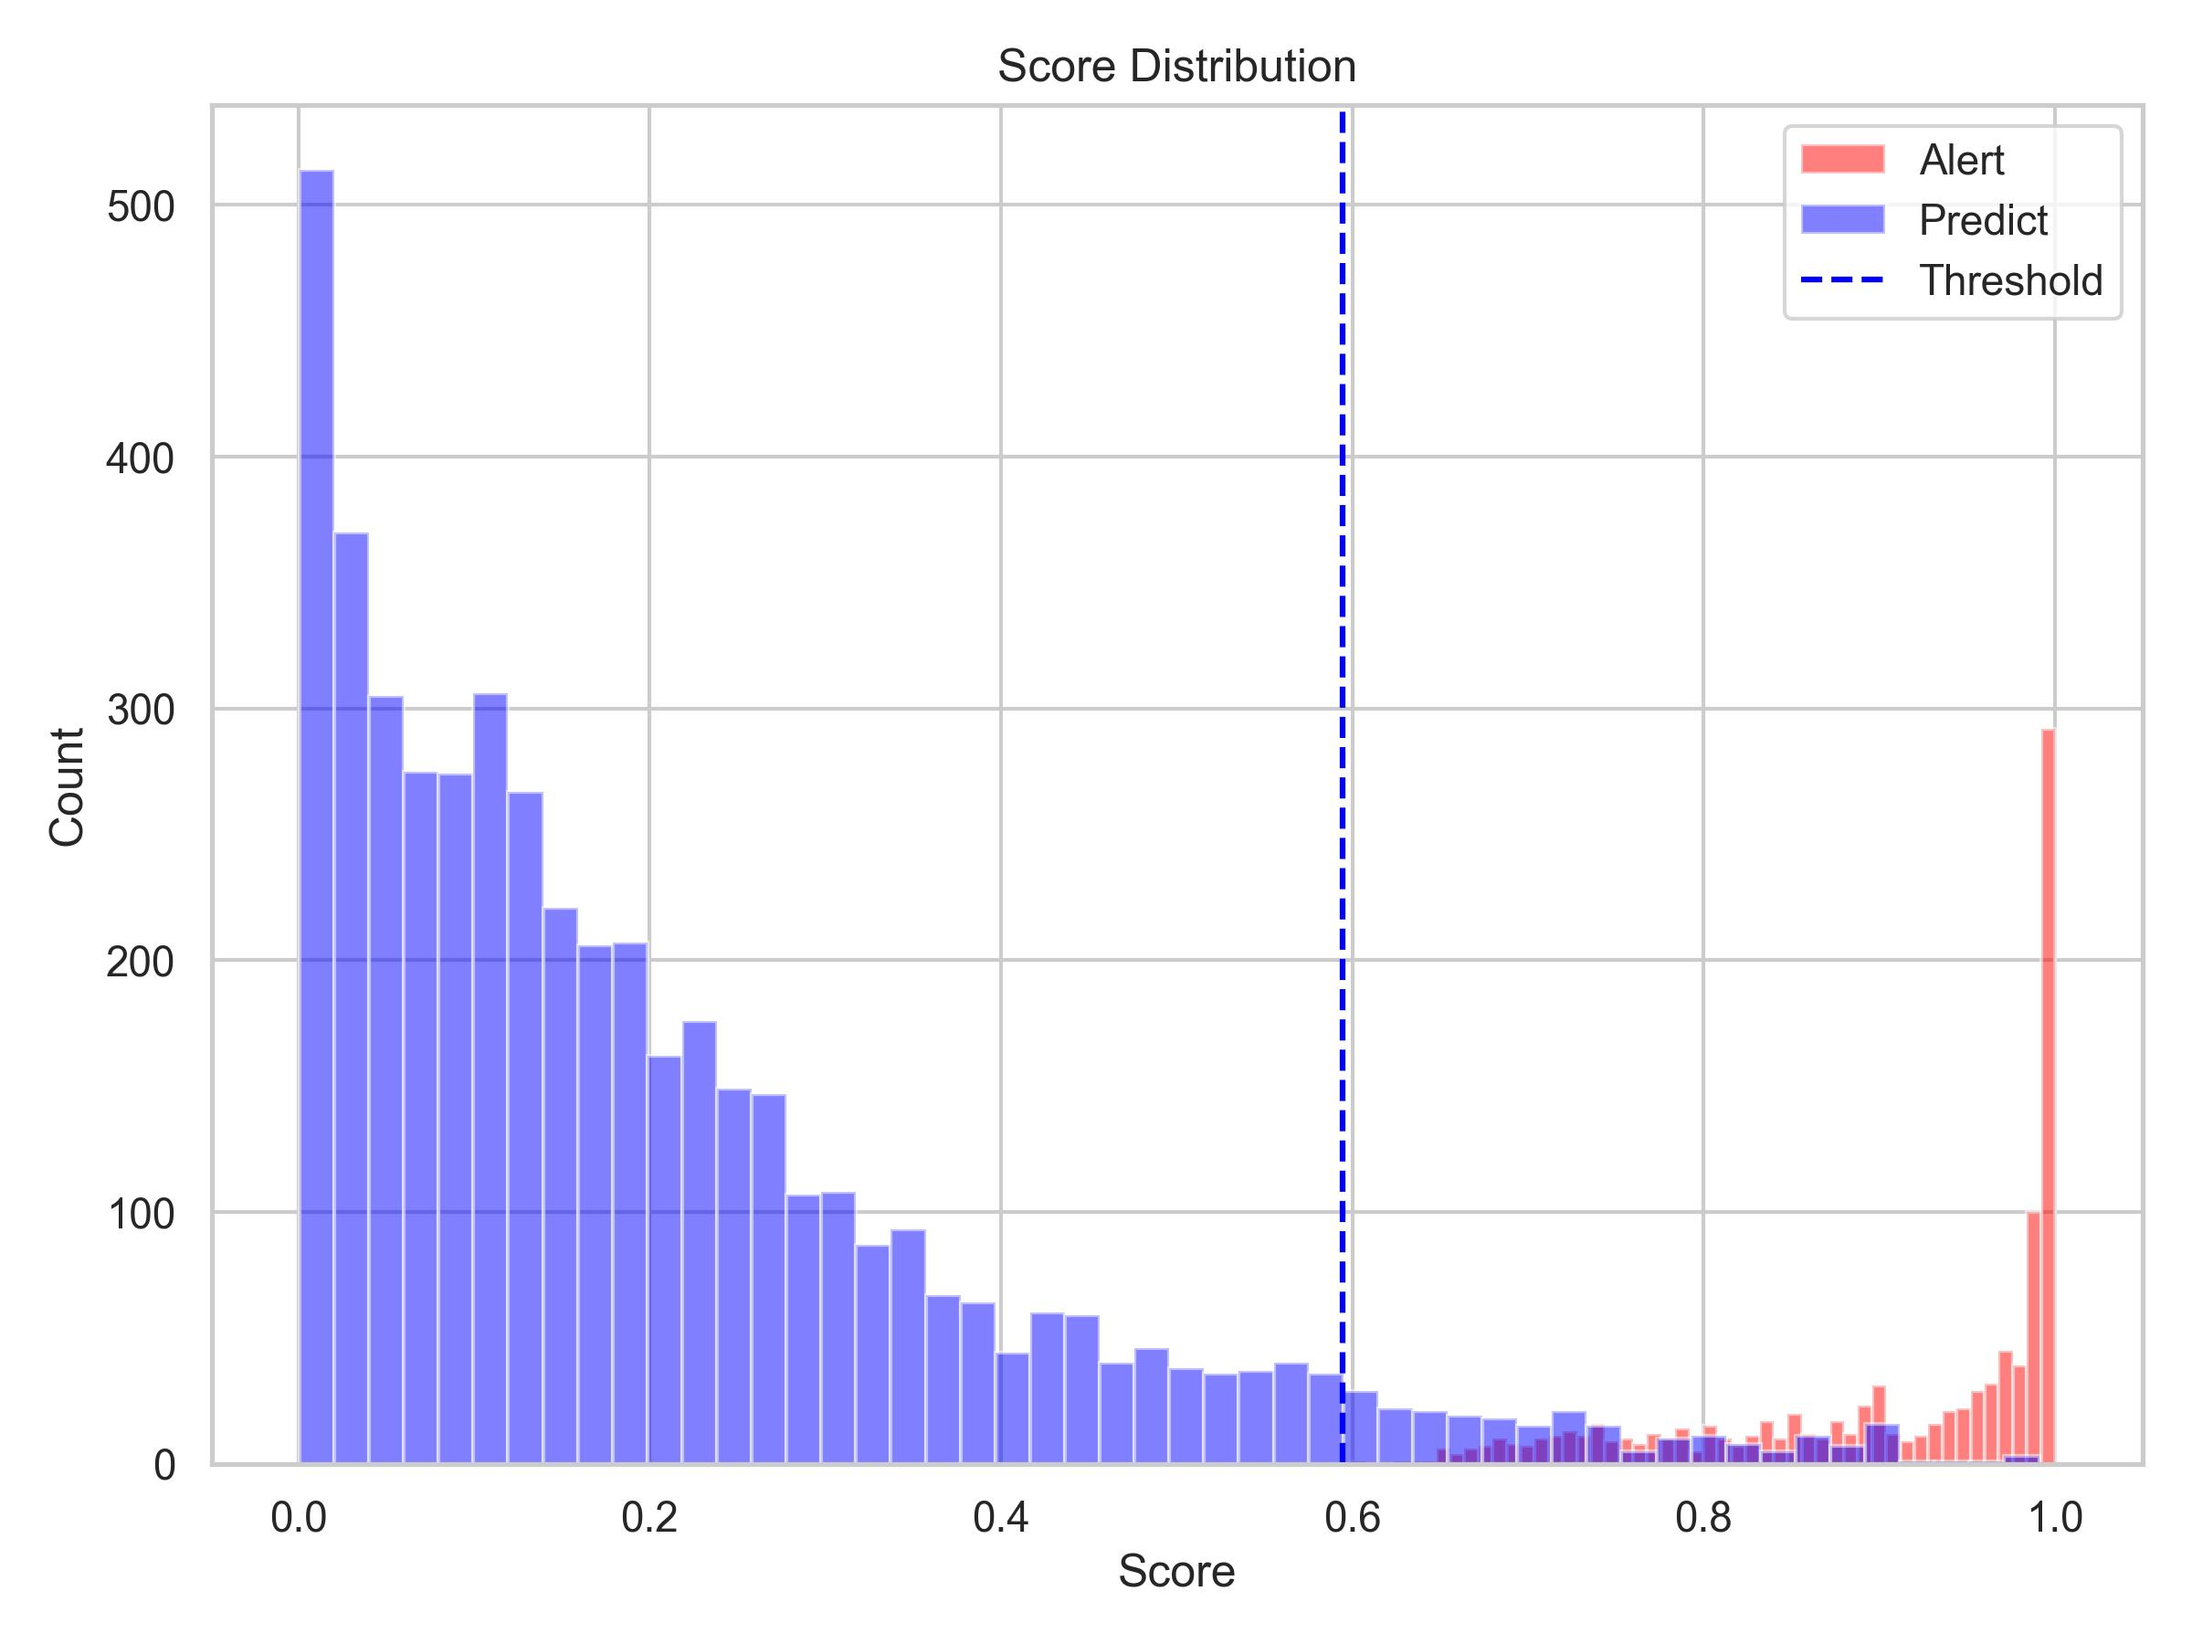
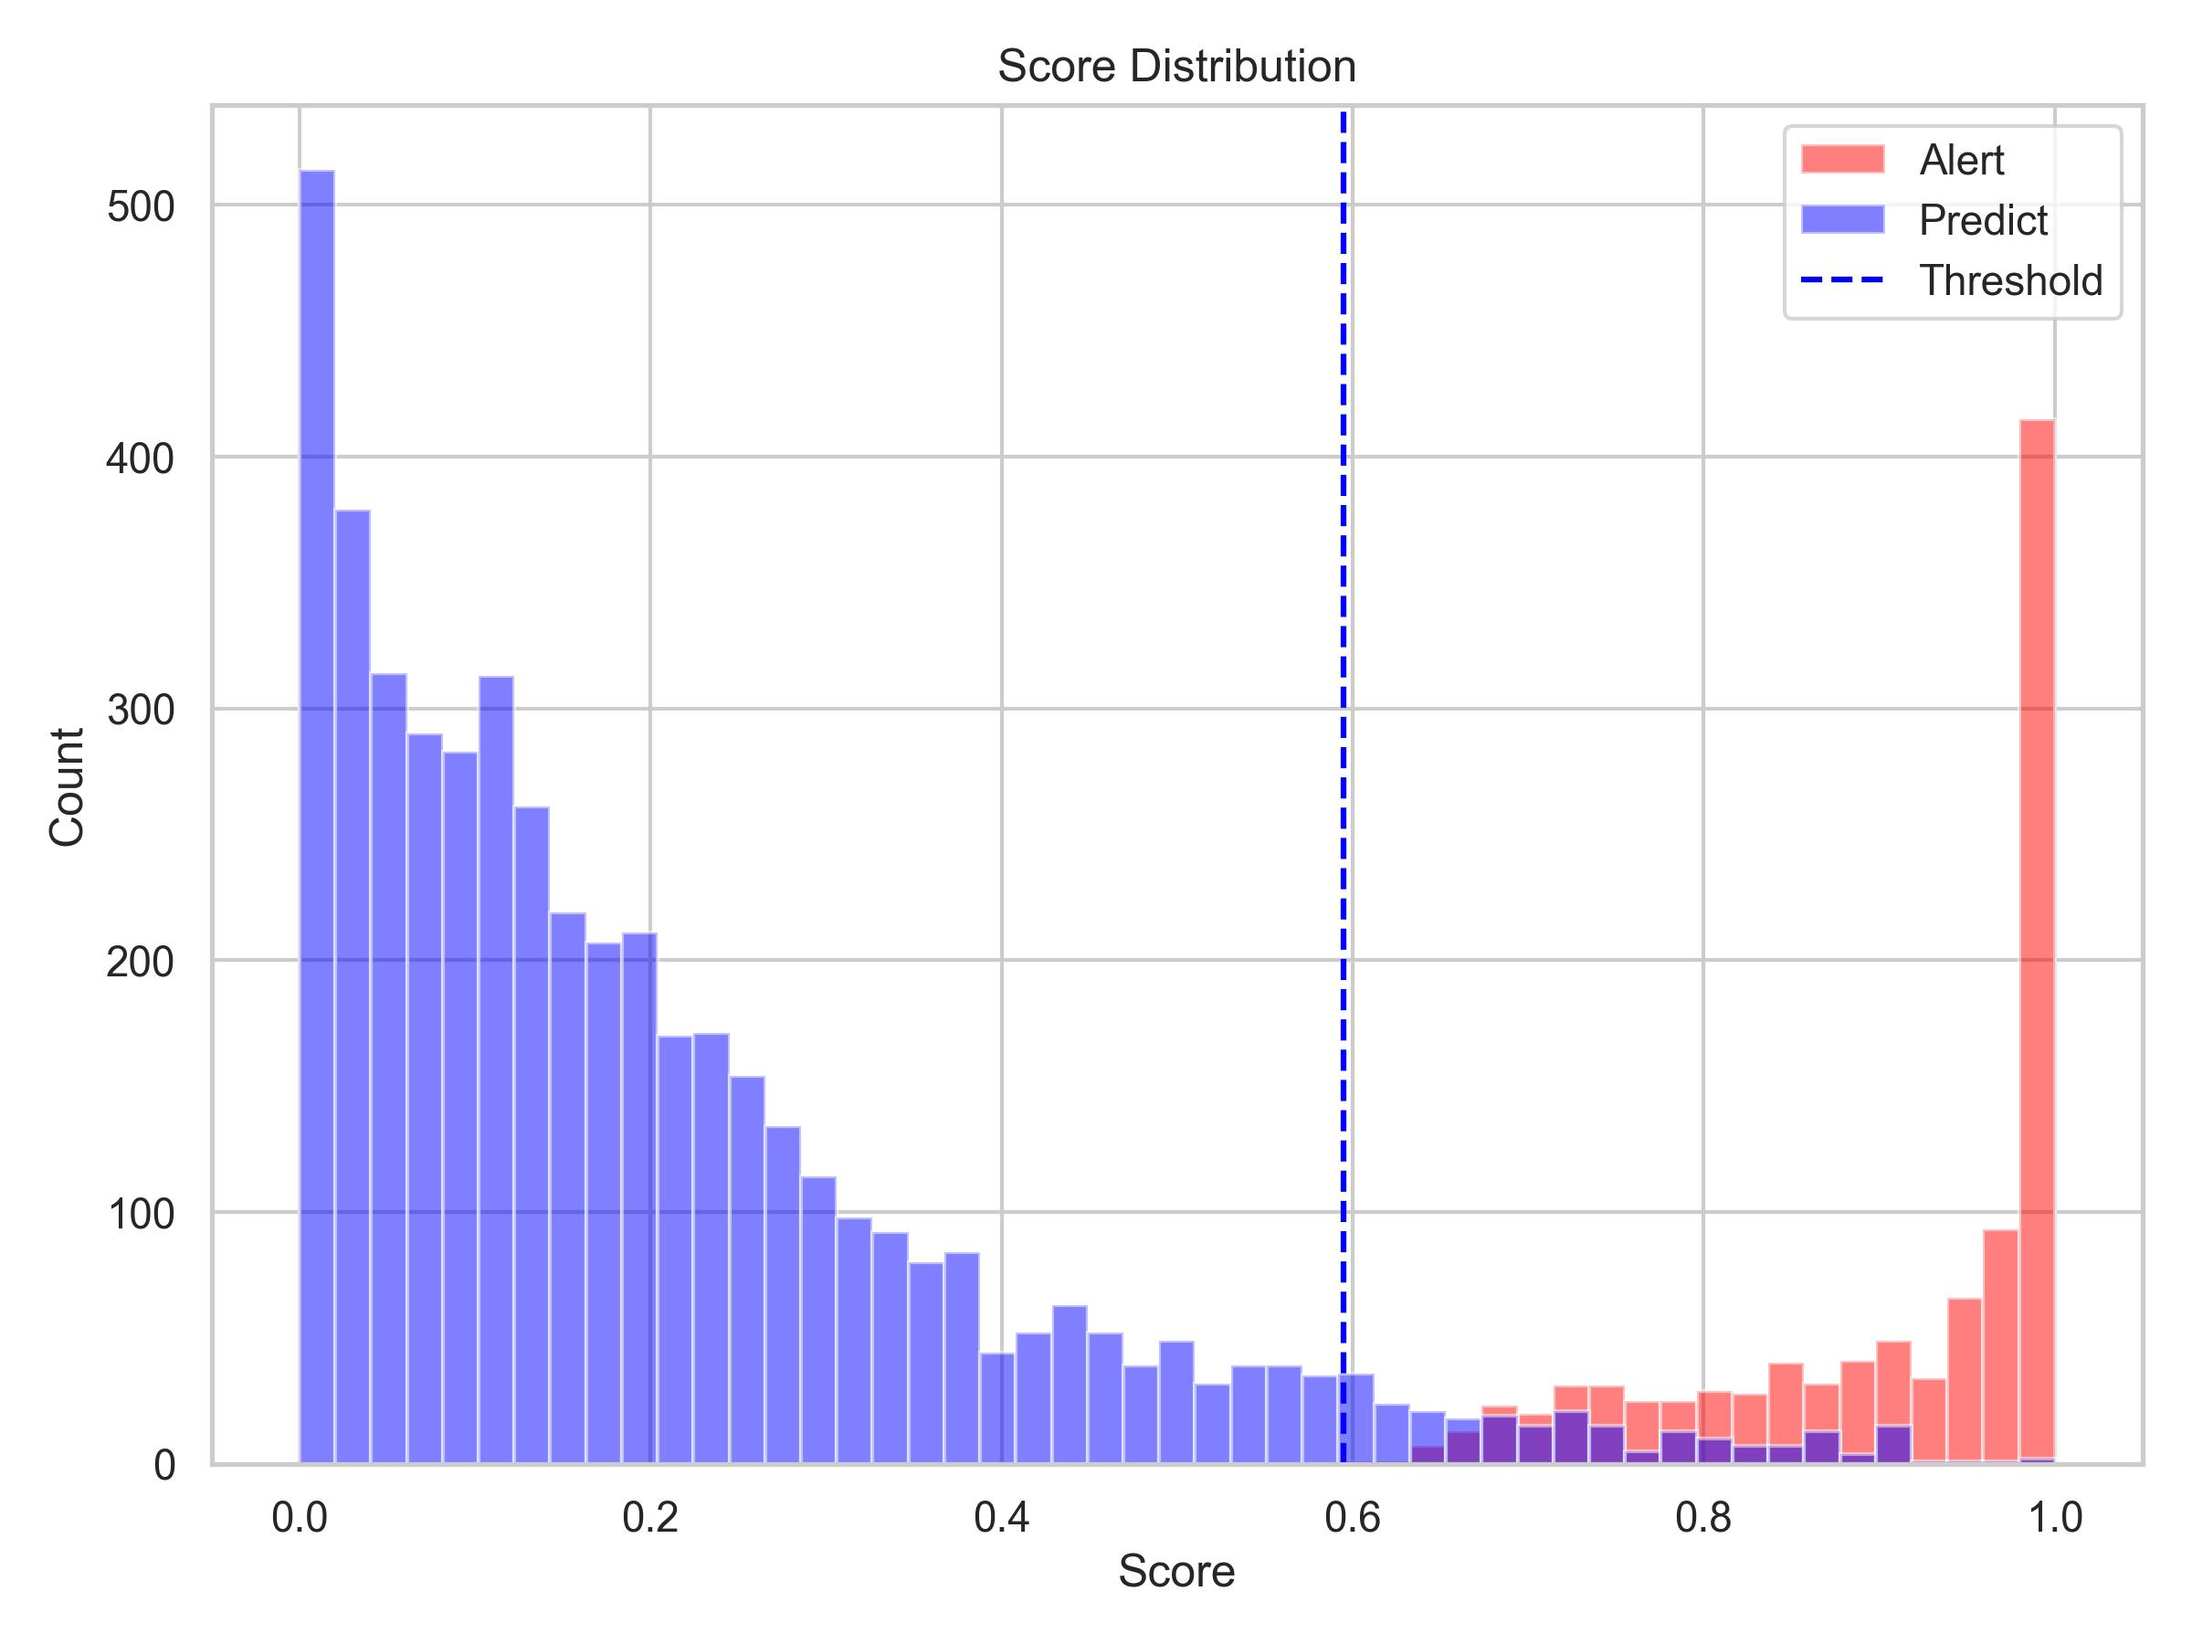
Add README.md

Changed region(s): [[0.1562, 0.2489, 0.9375, 0.9333], [0.1562, 0.3111, 0.1875, 0.3422], [0.125, 0.9022, 0.1562, 0.9333]]

diff --git a/Preprocess/features.py b/Preprocess/features.py
@@ -12,6 +12,7 @@ plot_features(df_alert_features, df_predict_features, save_path)
 """
 
 import pandas as pd
+import numpy as np
 import seaborn as sns
 import matplotlib.pyplot as plt
 
@@ -119,8 +120,9 @@ def plot_features(df_alert_features, df_predict_features, save_path):
         ax = plt.subplot(n_rows, n_cols, i + 1)
 
         # Accounts histogram
-        sns.histplot(df_alert_features[col], color="red", label="Alert", kde=False, bins=30, stat="percent", alpha=0.4, ax=ax)
-        sns.histplot(df_predict_features[col], color="blue", label="Predict", kde=False, bins=30, stat="percent", alpha=0.4, ax=ax)
+        bins = np.linspace(0, 1, 30)
+        sns.histplot(df_alert_features[col], color="red", label="Alert", kde=False, bins=bins, stat="percent", alpha=0.4, ax=ax)
+        sns.histplot(df_predict_features[col], color="blue", label="Predict", kde=False, bins=bins, stat="percent", alpha=0.4, ax=ax)
 
         # Set plot title and labels
         ax.set_title(col)

diff --git a/Model/detector.py b/Model/detector.py
@@ -101,8 +101,9 @@ def plot_distribution(config, df_all_features, save_path):
     plt.figure(figsize=(8, 6))
 
     # Plot histogram for accounts
-    plt.hist(df_all_features.loc[df_all_features["label"] == 1, "score"], bins=50, alpha=0.5, color="red", label="Alert")
-    plt.hist(df_all_features.loc[df_all_features["label"] == 0, "score"], bins=50, alpha=0.5, color="blue", label="Predict")
+    bins = np.linspace(0, 1, 50)
+    plt.hist(df_all_features.loc[df_all_features["label"] == 1, "score"], bins=bins, alpha=0.5, color="red", label="Alert")
+    plt.hist(df_all_features.loc[df_all_features["label"] == 0, "score"], bins=bins, alpha=0.5, color="blue", label="Predict")
 
     # Add threshold line
     percent = np.percentile(df_all_features.loc[df_all_features["label"] == 0, "score"], config["threshold"])

diff --git a/Model/README.md b/Model/README.md
@@ -1,14 +1,14 @@
 # Model
 
-此資料夾用於警示帳戶偵測模型的建立、警示分數分布圖生成，以及最終結果 CSV 的輸出。
+此資料夾用於警示帳戶偵測模型的建立、警示分數分布圖生成，以及最終結果的輸出。
 
 ## 程式說明（detector.py）
 
-- 功能：根據設定的 `config`，對帳戶進行警示偵測，繪製分數分布圖，並輸出最終 CSV 結果
+- 功能：根據設定的 `config`，對帳戶進行警示偵測，繪製分數分布圖，並輸出最終結果
 - 主要函式：
-    - `alert_acct_detector`：使用 PU Bagging 隨機森林模型計算警示帳戶分數
-    - `plot_distribution`：將警示帳戶與待偵測帳戶的分數分布繪製成圖
-    - `save_result`：依據分數百分位產生最終警示標籤，並輸出 CSV
+  - `alert_acct_detector`：使用 PU Bagging 隨機森林模型計算警示帳戶分數
+  - `plot_distribution`：將警示帳戶與待偵測帳戶的分數分布繪製成圖
+  - `save_result`：依據分數產生最終警示標籤，並輸出最終結果 CSV
 
 ## 警示分數分布圖（detector.jpg）
 
